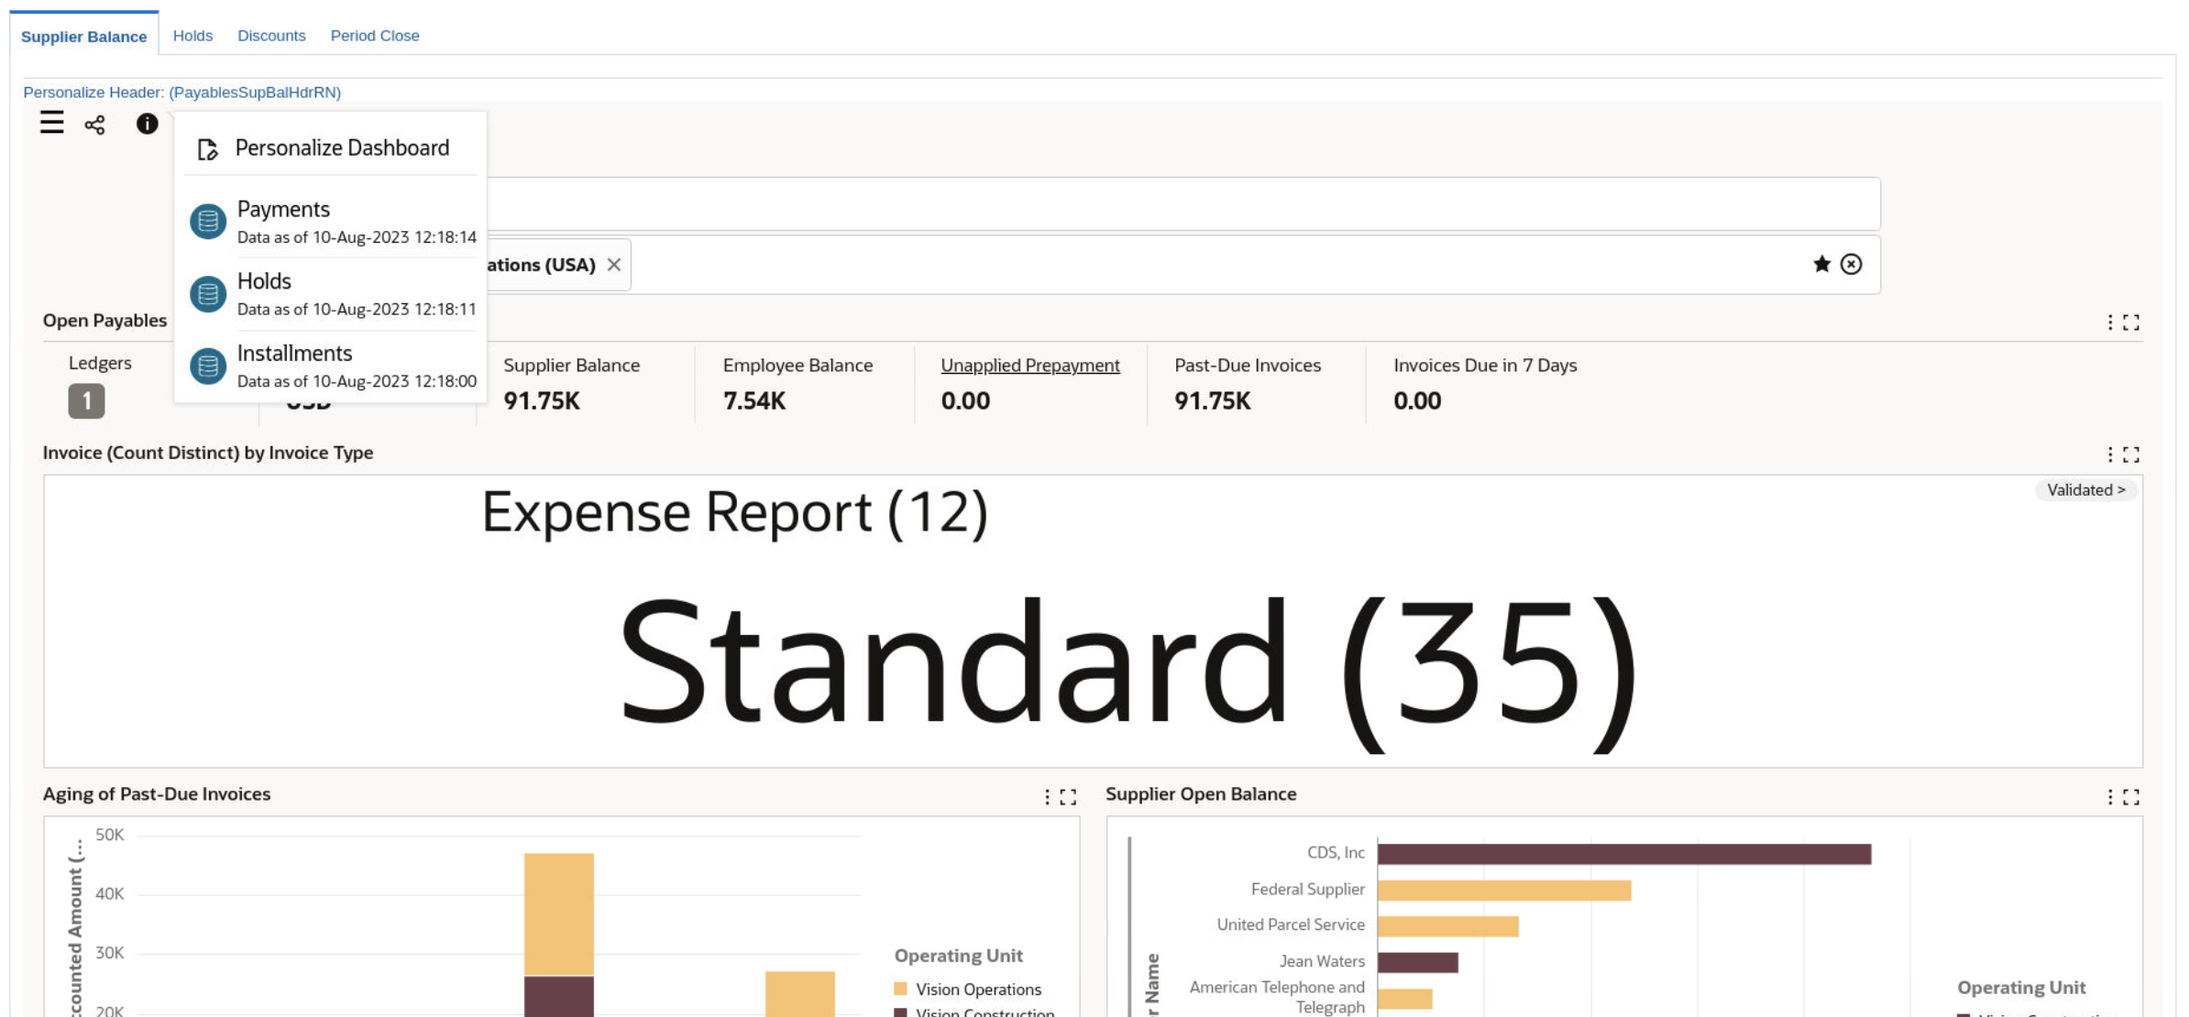
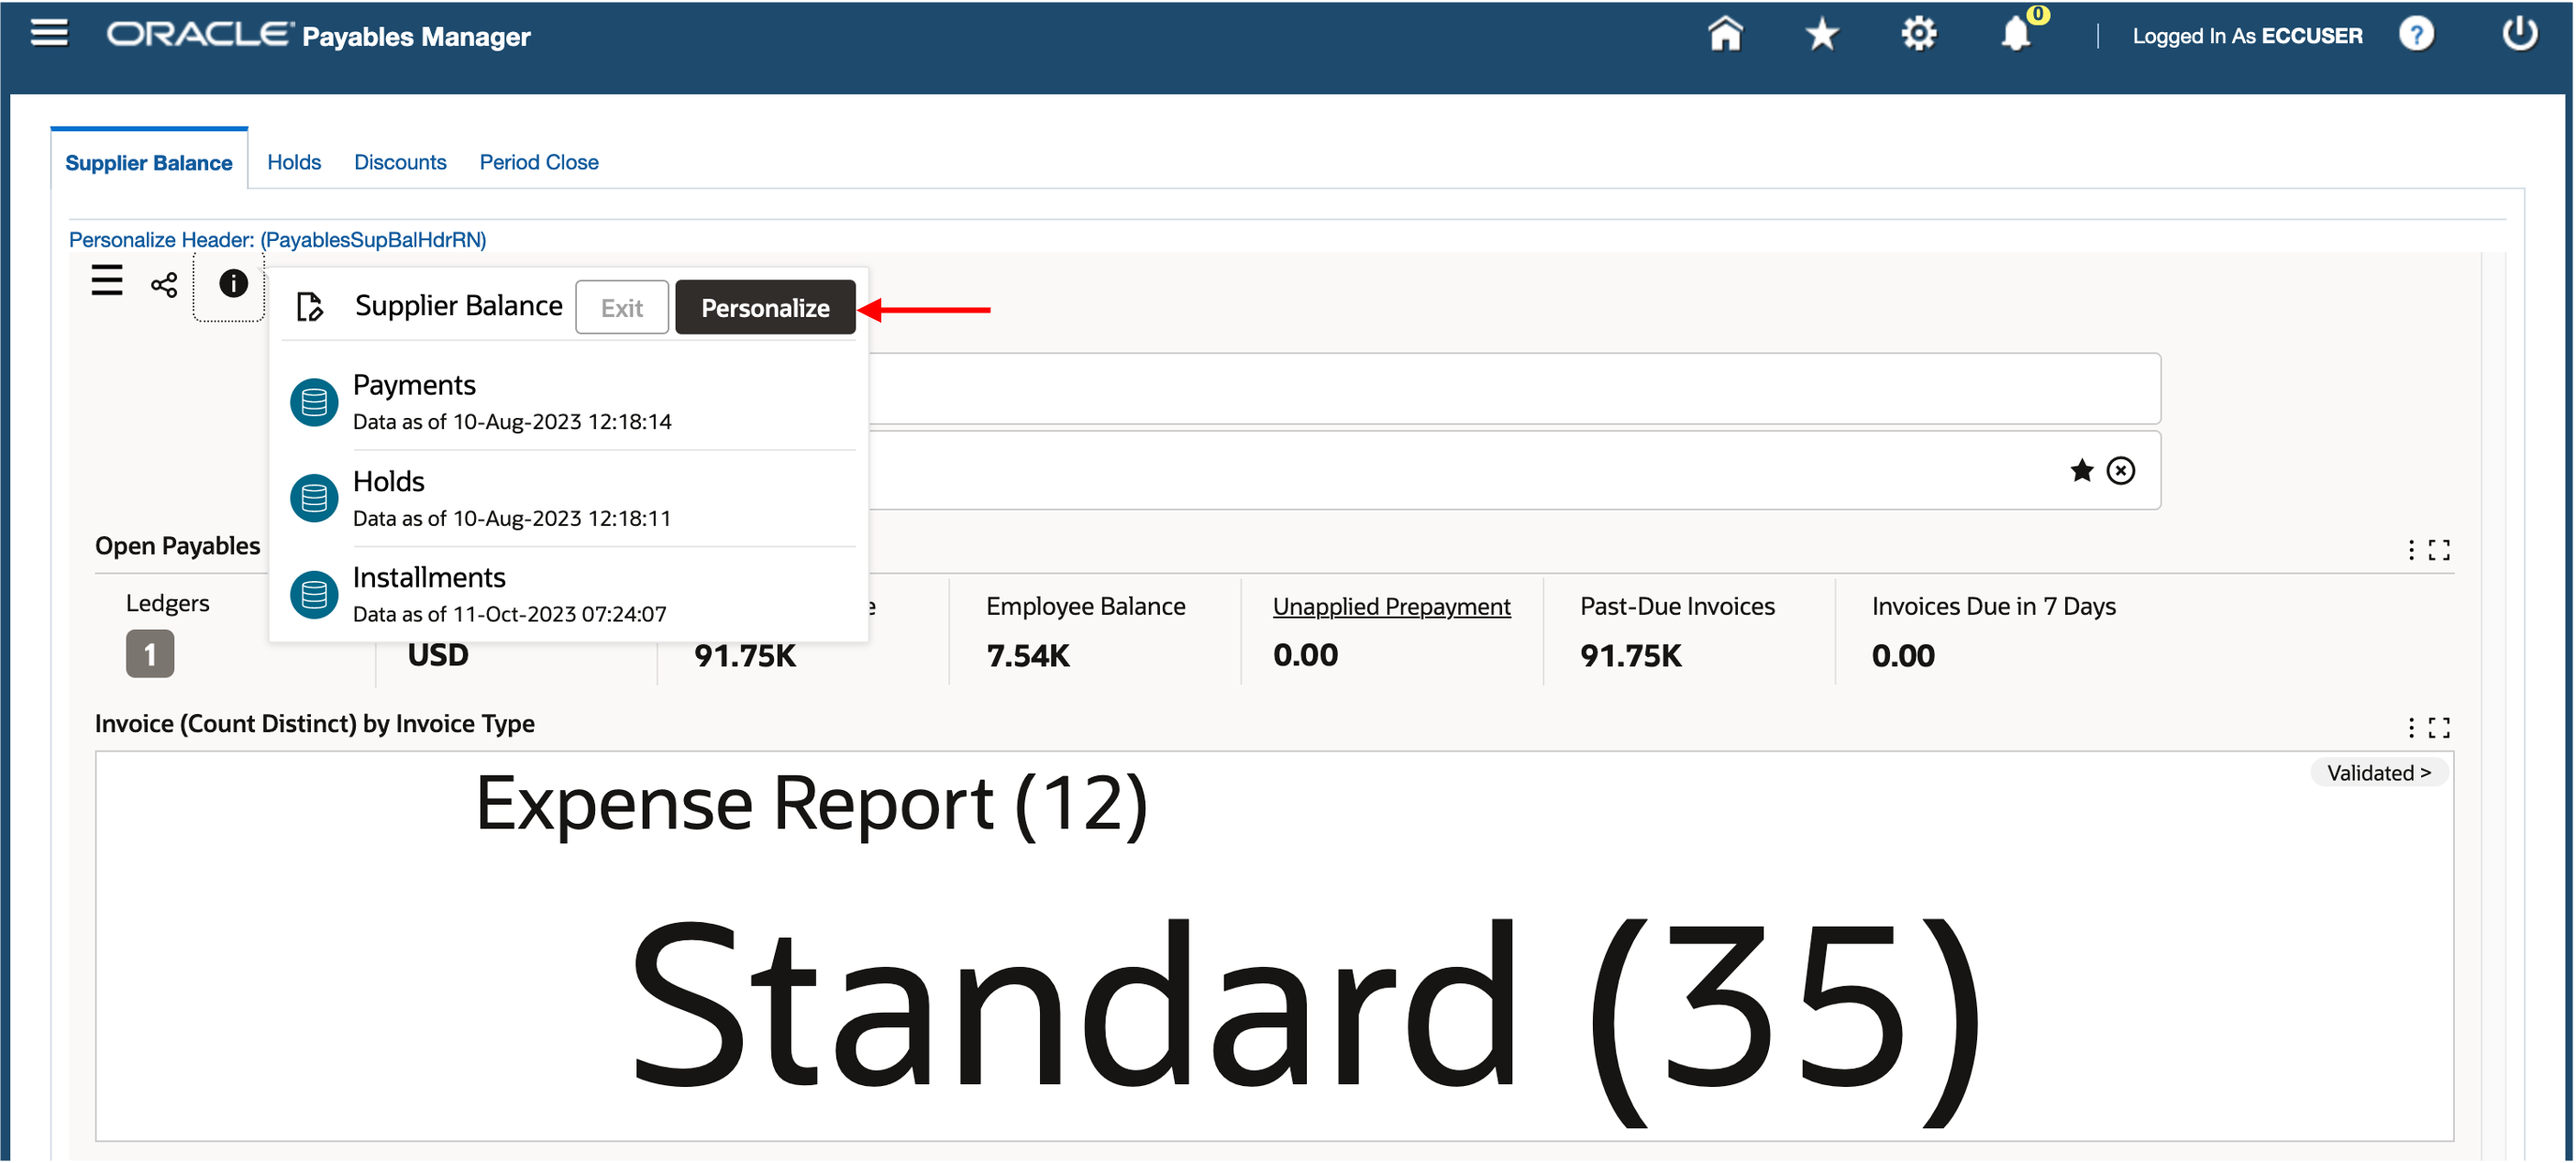
Changes in Power User Personalization

diff --git a/ecc-developer-hol/query/poweruserpersonalization/poweruserpersonalization.md b/ecc-developer-hol/query/poweruserpersonalization/poweruserpersonalization.md
@@ -122,11 +122,11 @@ Password: welcome1
 
 
 
-5. Enable Personalization Mode by clicking on the "i" icon (on the top left of the page, beside the share icon) and then click on "Personalize Dashboard" button.
+5. Enable Personalization Mode by clicking on the "i" icon (on the top left of the page, beside the share icon) and then click on "Personalize" button.
 
    ![Enable Personalization Mode](../images/sup3.png "Enable Personalization Mode")  
    ![Enable Personalization Mode](../images/sup4.png "Enable Personalization Mode")
-5. The personalization icon changes to blue when the dashboard is in edit mode. All components in the dashboard will now have the configuration and delete icon
+5. The "Personalize" button is now disabled and the personalization icon changes to blue when the dashboard is in edit mode. All components in the dashboard will now have the configuration and delete icon
 
 
 
@@ -187,7 +187,7 @@ Password: welcome1
 
     ![Pivot view](../images/switch2.png "Pivot view")
 
-25. Finally, click on the "i" icon and then the "Personalize Dashboard" button to disable Personalization mode.
+25. Finally, click on the "i" icon and then the "Exit" button to disable Personalization mode.
 
 ## Task 3: Personalize Account Analysis dashboard
 
